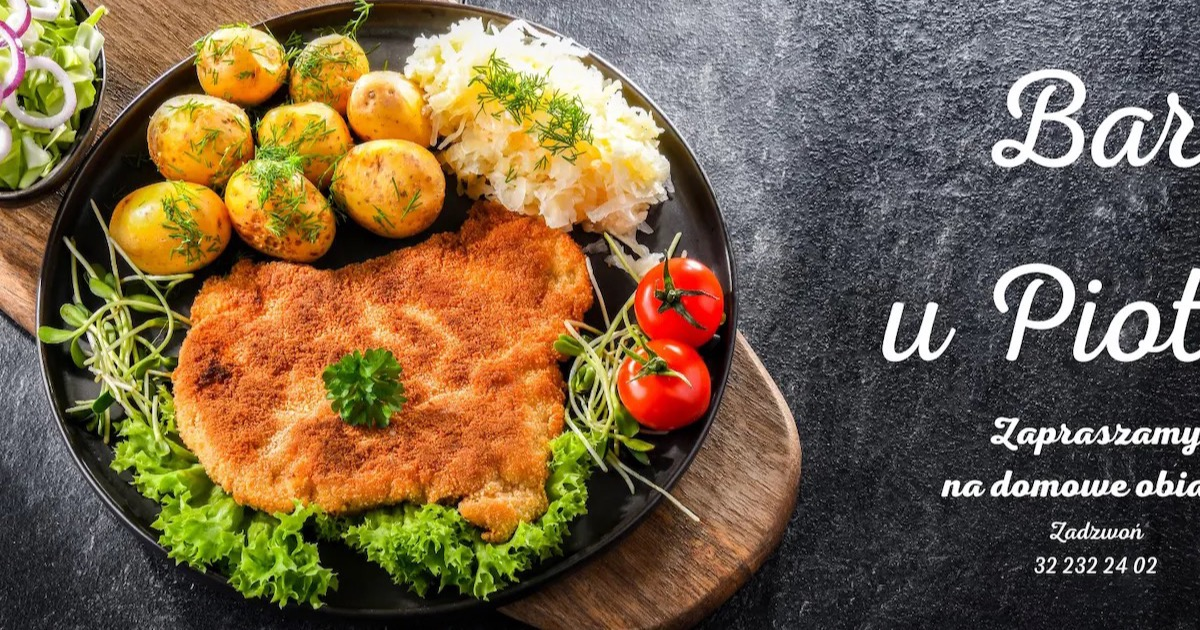
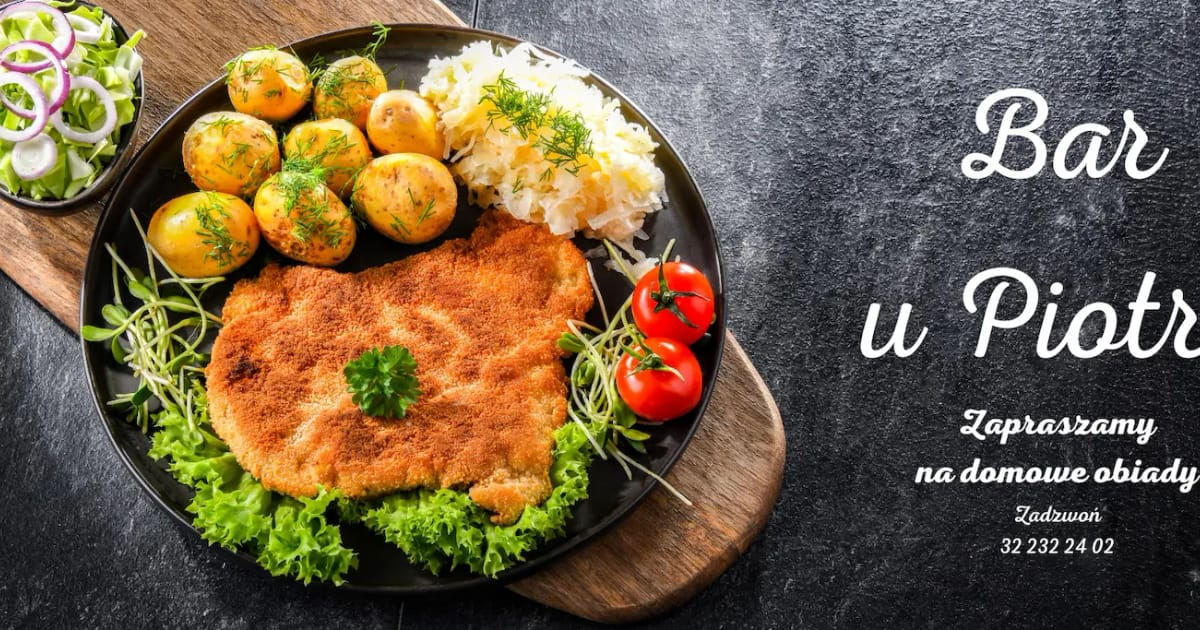
More SEO optimatization

diff --git a/src/components/banners/DiscountBanner.tsx b/src/components/banners/DiscountBanner.tsx
@@ -9,16 +9,7 @@ async function fetchPromotion(): Promise<PromotionResponse | null> {
 	return getPromotion(PROMOTION_TAG)
 }
 
-/**
- * Oferta dnia zmienia sie codziennie, a build strony nie leci codziennie - dlatego
- * lista dan pobierana jest z API po stronie klienta. Komponent renderuje sie jednak
- * przez SSR (client:load zamiast client:only), zeby stala czesc bannera - naglowek
- * i opis z frazami - trafila do HTML-u i byla indeksowana.
- */
 export default function DiscountBanner() {
-	// Zrodlo `false` na serwerze blokuje pobranie w trakcie builda - inaczej do HTML-u
-	// trafilaby promocja z dnia deployu i wisiala tam do nastepnego wgrania strony.
-	// Na kliencie zrodlo jest `true`, wiec po hydracji leci swiezy fetch.
 	const [data] = createResource(() => !isServer, fetchPromotion)
 
 	const poromotionDate = () => {
@@ -37,22 +28,30 @@ export default function DiscountBanner() {
 			<div class="mx-auto flex max-w-[1600px] flex-col justify-center">
 				<div class="mx-auto flex flex-col md:flex-row">
 					<div class="flex items-center justify-center gap-8 sm:px-16">
-						<img
-							src="/images/discount_left.jpg"
-							alt="Danie dnia serwowane w Barze u Piotra w Gliwicach"
-							height={400}
-							width={300}
-							loading="lazy"
-							class="image-shadow hidden rounded-xl shadow-2xl md:block"
-						/>
-						<img
-							src="/images/discount_right.jpeg"
-							alt="Domowy obiad z zestawu dnia – Bar u Piotra Gliwice"
-							height={450}
-							width={300}
-							loading="lazy"
-							class="image-shadow rounded-xl shadow-2xl"
-						/>
+						<picture class="hidden md:block">
+							<source srcset="/images/discount_left.webp" type="image/webp" />
+							<img
+								src="/images/discount_left.jpg"
+								alt="Danie dnia serwowane w Barze u Piotra w Gliwicach"
+								height={400}
+								width={300}
+								loading="lazy"
+								decoding="async"
+								class="image-shadow rounded-xl shadow-2xl"
+							/>
+						</picture>
+						<picture>
+							<source srcset="/images/discount_right.webp" type="image/webp" />
+							<img
+								src="/images/discount_right.jpg"
+								alt="Domowy obiad z zestawu dnia – Bar u Piotra Gliwice"
+								height={450}
+								width={300}
+								loading="lazy"
+								decoding="async"
+								class="image-shadow rounded-xl shadow-2xl"
+							/>
+						</picture>
 					</div>
 					<div class="flex w-full flex-col justify-center px-8 sm:px-16 md:w-1/2 md:p-16">
 						<h2 class="mb-0">Danie dnia w Gliwicach</h2>
@@ -60,8 +59,8 @@ export default function DiscountBanner() {
 
 						<p class="my-4 text-primary-100">
 							Codziennie przygotowujemy dla państwa specjalną ofertę "Dania dnia", są to dania które
-							zazwyczaj nie są w naszej karcie w atrakcyjnych cenach. Dostępne zarówno na miejscu i w
-							dowozie. W dniu dzisiejszym zapraszamy na:
+							zazwyczaj nie są w naszej karcie w atrakcyjnych cenach. Dostępne zarówno na miejscu i
+							w dowozie. W dniu dzisiejszym zapraszamy na:
 						</p>
 
 						<Show

diff --git a/src/config/business.ts b/src/config/business.ts
@@ -1,10 +1,3 @@
-/**
- * Jedno zrodlo prawdy dla danych firmy (NAP: name, address, phone).
- * Uzywane w stopce, na stronie kontakt i w danych strukturalnych JSON-LD.
- * Spojnosc tych danych w calym serwisie i z wizytowka Google to czynnik local SEO -
- * zmieniaj je tylko tutaj.
- */
-
 export const BUSINESS = {
 	name: 'Bar u Piotra',
 	legalName: 'Intercom Piotr Jezik, Michał Jezik, Krzysztof Skrobacki S.C.',
@@ -18,14 +11,16 @@ export const BUSINESS = {
 		region: 'śląskie',
 		country: 'PL'
 	},
-	// Wspolrzedne przybliżone dla ul. Zwycięstwa w Gliwicach - warto podmienic
-	// na dokladne z wizytowki Google Business Profile.
 	geo: { lat: 50.2945, lng: 18.6659 },
 	social: ['https://www.facebook.com/obiadygliwice'],
 	priceRange: '$',
 	cuisine: ['Polska', 'Domowa', 'Bar mleczny'],
 	openingHours: [
-		{ days: ['Monday', 'Tuesday', 'Wednesday', 'Thursday', 'Friday'], opens: '10:00', closes: '18:00' },
+		{
+			days: ['Monday', 'Tuesday', 'Wednesday', 'Thursday', 'Friday'],
+			opens: '10:00',
+			closes: '18:00'
+		},
 		{ days: ['Saturday'], opens: '10:00', closes: '16:00' },
 		{ days: ['Sunday'], opens: '11:00', closes: '16:00' }
 	]
@@ -33,5 +28,4 @@ export const BUSINESS = {
 
 export const ADDRESS_LINE = `${BUSINESS.address.street}, ${BUSINESS.address.postalCode} ${BUSINESS.address.city}`
 
-/** Numer telefonu w formacie nadajacym sie do href="tel:" (E.164). */
 export const telHref = (phone: string) => `tel:+48${phone.replace(/\s/g, '')}`

diff --git a/src/components/foodMenu/MainMenuFood.tsx b/src/components/foodMenu/MainMenuFood.tsx
@@ -4,11 +4,9 @@ import type { FoodCategorie } from './FoodMenu.astro'
 
 type Props = {
 	items: FoodCategorie[]
-	/** Naglowek sekcji menu. */
 	heading?: string
 }
 
-/** Slug kategorii do kotwicy w linkach nawigacyjnych. */
 const slug = (name: string) =>
 	name
 		.toLowerCase()
@@ -18,11 +16,6 @@ const slug = (name: string) =>
 		.replace(/[^a-z0-9]+/g, '-')
 		.replace(/^-|-$/g, '')
 
-/**
- * Cale menu jest renderowane statycznie - wszystkie kategorie widoczne naraz,
- * bez JS po stronie klienta. Wczesniej <Show> zostawial w HTML tylko jedna
- * kategorie, wiec reszta dan nie istniala dla wyszukiwarek.
- */
 export const MainMenuFood: Component<Props> = (props) => {
 	const categories = () => props.items ?? []
 

diff --git a/src/lib/contentfulImage.ts b/src/lib/contentfulImage.ts
@@ -1,0 +1,15 @@
+const DEFAULT_WIDTHS = [480, 768, 1024, 1440, 1920]
+
+const withProtocol = (url: string) => (url.startsWith('//') ? `https:${url}` : url)
+
+export function contentfulImage(url: string, width: number, quality = 75): string {
+	return `${withProtocol(url)}?w=${width}&fm=webp&q=${quality}`
+}
+
+export function contentfulSrcSet(
+	url: string,
+	widths: number[] = DEFAULT_WIDTHS,
+	quality = 75
+): string {
+	return widths.map((w) => `${contentfulImage(url, w, quality)} ${w}w`).join(', ')
+}

diff --git a/src/components/contact/ContactForm.tsx b/src/components/contact/ContactForm.tsx
@@ -100,7 +100,7 @@ export const ContactForm: Component<Props> = ({}) => {
 
 	return (
 		<div class="mt-6 w-full md:w-2/3">
-			<h1 class="text-base">Formularz kontaktowy</h1>
+			<h2 class="text-base">Formularz kontaktowy</h2>
 			<form onSubmit={sendEmail} class="w-full" id="contact-form">
 				<div class="mb-5 grid w-full grid-cols-2 gap-8">
 					<div>

diff --git a/SEO-TODO.md b/SEO-TODO.md
@@ -1,0 +1,112 @@
+# SEO – co jeszcze zostało do zrobienia
+
+Punkty 1–4 (kanonikalizacja, dane strukturalne, tytuły/opisy, menu w HTML) są zrobione.
+Poniżej to, co wymaga decyzji biznesowych albo treści od klienta.
+
+Dane wejściowe: Google Search Console, eksport „Skuteczność w wyszukiwarce” za 3 miesiące
+do 2026-08-06 (2706 kliknięć / 28 877 wyświetleń na zapytaniach, 92% ruchu mobilnego).
+
+---
+
+## Punkt 5 – nowe strony pod realne zapytania
+
+Ruch jest dziś niemal w całości brandowy (~2200 z 2706 kliknięć to warianty „bar u piotra”).
+Wzrost siedzi w zapytaniach niebrandowych, na które dostajemy wyświetlenia, ale nie mamy
+dla nich dedykowanej strony.
+
+### 5.1. `/dowoz` – obiady z dowozem
+
+Zapytania bez własnej strony (3 mies.):
+
+| Zapytanie | Wyświetlenia | Kliknięcia | Pozycja |
+|---|---|---|---|
+| tanie obiady z dowozem gliwice | 364 | 5 | **1,57** |
+| obiady dla seniorów z dowozem gliwice | 290 | 10 | 5,6 |
+| jedzenie na dowóz gliwice | 253 | 6 | 7,22 |
+| obiady z dowozem gliwice | 161 | 6 | 2,01 |
+| obiady abonamentowe gliwice | 118 | 6 | 2,18 |
+| obiady na dowóz gliwice | 69 | 6 | 1,45 |
+| obiady gliwice dowóz | 80 | 4 | 2,11 |
+
+Informacje o dowozie są dziś rozrzucone po `/menu` (koszt dowozu, opakowania) i nigdzie
+nie tworzą spójnej strony.
+
+**Potrzebne od klienta:**
+- zasady i ceny **abonamentów** (dzienny/tygodniowy/miesięczny, czy jest zniżka)
+- czy jest osobna **oferta dla seniorów** i na jakich warunkach (to zapytanie ma 290
+  wyświetleń przy pozycji 5,6 – realna nisza)
+- obszar dowozu (dziś wiemy tylko: Gliwice, od 40 zł, do 7 km – 9 zł, powyżej – 18 zł)
+- godziny przyjmowania zamówień na dowóz
+
+**Do zrobienia w kodzie:** strona `/dowoz` z `h1` „Obiady z dowozem w Gliwicach”, tabelą
+kosztów dostawy, sekcją o abonamentach, `FAQPage` w JSON-LD (pytania: obszar, minimalna
+kwota, czas dostawy), link z głównej i z `/menu`.
+
+### 5.2. `/catering` – catering firmowy
+
+| Zapytanie | Wyświetlenia | Kliknięcia | Pozycja |
+|---|---|---|---|
+| catering gliwice | 159 | 0 | **37,26** |
+| obiady do biura gliwice | 136 | 0 | 10,53 |
+
+Strona `/dlafirm` istnieje, ale słowo „catering” pada w niej raz, a treść dotyczy głównie
+budów. Pozycja 37 na „catering gliwice” oznacza, że Google w ogóle nie wiąże nas z tą frazą.
+
+**Do rozważenia:** rozbudować `/dlafirm` (a nie tworzyć drugiej strony – kanibalizacja),
+dodać sekcje „obiady do biura”, „catering na konferencje”, „catering okolicznościowy”.
+Uwaga: `/cele` wspomina o organizacji konferencji do 80 osób i wesel do 350 osób – jeśli
+te usługi już działają, są warte osobnych sekcji, bo to zupełnie inne zapytania.
+
+**Potrzebne od klienta:** czy usługi z projektu KPOD (konferencje, wesela, catering
+abonamentowy, grill) są już uruchomione i można je sprzedawać na stronie.
+
+### 5.3. Stołówka Studencka – NIE robimy tu strony
+
+To osobny lokal i **ma własną stronę**. Zapytania „stołówka studencka gliwice” (415 wyśw.,
+CTR 13%), „stołówka u piotra” (160 wyśw.), „stołówka studencka” (138 wyśw.) powinny
+kierować tam, nie tutaj.
+
+**Do zrobienia:**
+- ustalić adres URL tamtej strony i podlinkować ją z `obiady-gliwice.pl` (stopka + sekcja
+  „nasze lokale”), żeby nie konkurować z samym sobą o te frazy
+- dodać `sameAs` / powiązanie między wizytówkami Google obu lokali
+- rozważyć `Organization` w JSON-LD z dwoma `Restaurant` jako `subOrganization`
+
+**Potrzebne od klienta:** adres URL strony Stołówki Studenckiej.
+
+### 5.4. Treść pod „bar mleczny gliwice”
+
+Największa pojedyncza szansa w całym raporcie: rodzina fraz „bar mleczny” to ~6700
+wyświetleń i tylko ~85 kliknięć (5240 wyśw. przy pozycji 3,65 i CTR 1,32%).
+
+Fraza „bar mleczny” po zmianach jest już w tytule i opisie strony głównej oraz w
+`servesCuisine` w JSON-LD, ale **nie ma jeszcze treści**, która by ją rozwijała.
+
+**Do zrobienia:** sekcja na stronie głównej albo osobna strona o tym, że serwujemy kuchnię
+domową w cenach baru mlecznego – z konkretnymi cenami dań, bo to one decydują o kliknięciu.
+
+Uwaga: przy tak niskim CTR na pozycji 3,65 sporą część kliknięć zabiera zapewne pakiet
+lokalny (mapa). Część roboty jest więc poza kodem – patrz niżej.
+
+### 5.5. Poza kodem – Google Business Profile
+
+Dla „bar mleczny gliwice”, „obiady gliwice”, „bar gliwice” wyniki lokalne dominują nad
+organicznymi. Bez zadbanej wizytówki (kategorie, zdjęcia, godziny, menu, opinie, posty)
+sama optymalizacja strony nie odblokuje tych zapytań.
+
+**Do zrobienia:** audyt wizytówki, spójność NAP z `src/config/business.ts`
+(ul. Zwycięstwa 17, 44-100 Gliwice, +48 32 232 24 02), podmiana przybliżonych współrzędnych
+geo w `business.ts` na dokładne z wizytówki.
+
+---
+
+## Rzeczy do sprawdzenia po deployu
+
+- `curl -I http://obiady-gliwice.pl/` oraz `https://www.obiady-gliwice.pl/` – oba mają
+  zwrócić **301**. Serwer to nginx, więc `public/.htaccess` może być ignorowany; wtedy
+  przekierowania trzeba wpisać w konfiguracji nginx po stronie hostingu.
+- Zgłosić `https://obiady-gliwice.pl/sitemap-index.xml` w Search Console.
+- Docelowo przejść w GSC na **właściwość domenową** (Domain), żeby widzieć wszystkie
+  warianty URL-i w jednym miejscu.
+- Po zaindeksowaniu sprawdzić w GSC → Strony, czy warianty `http://`, `www.` znikają
+  z indeksu na rzecz jednego kanonicznego adresu.
